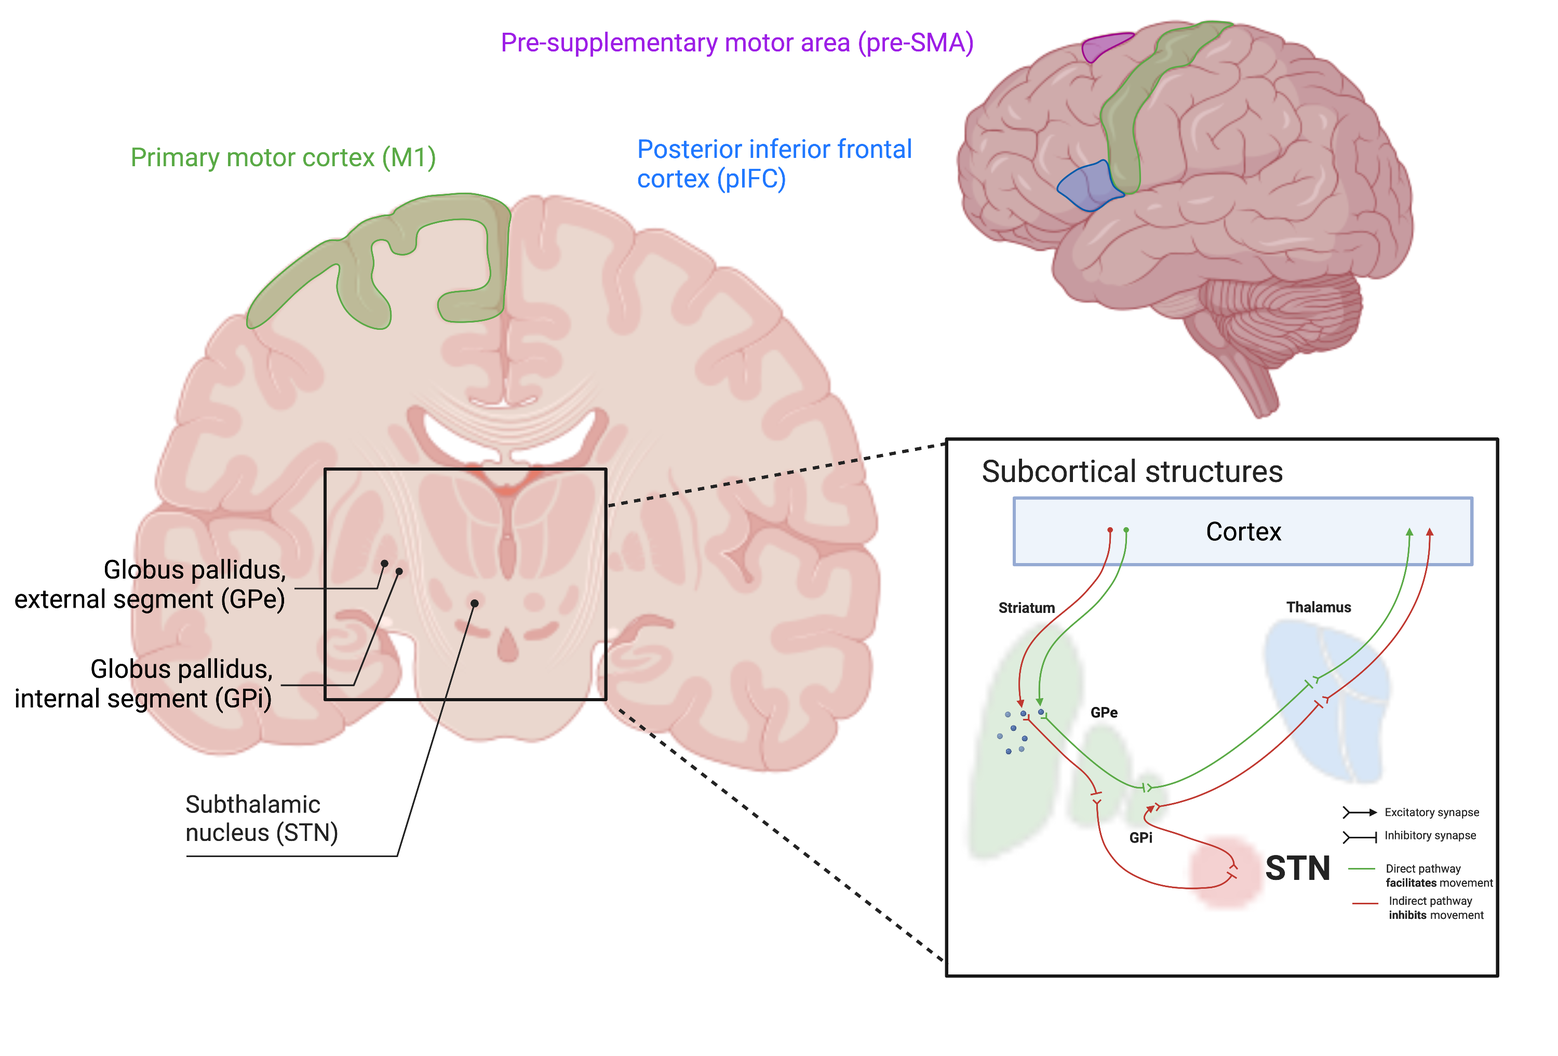
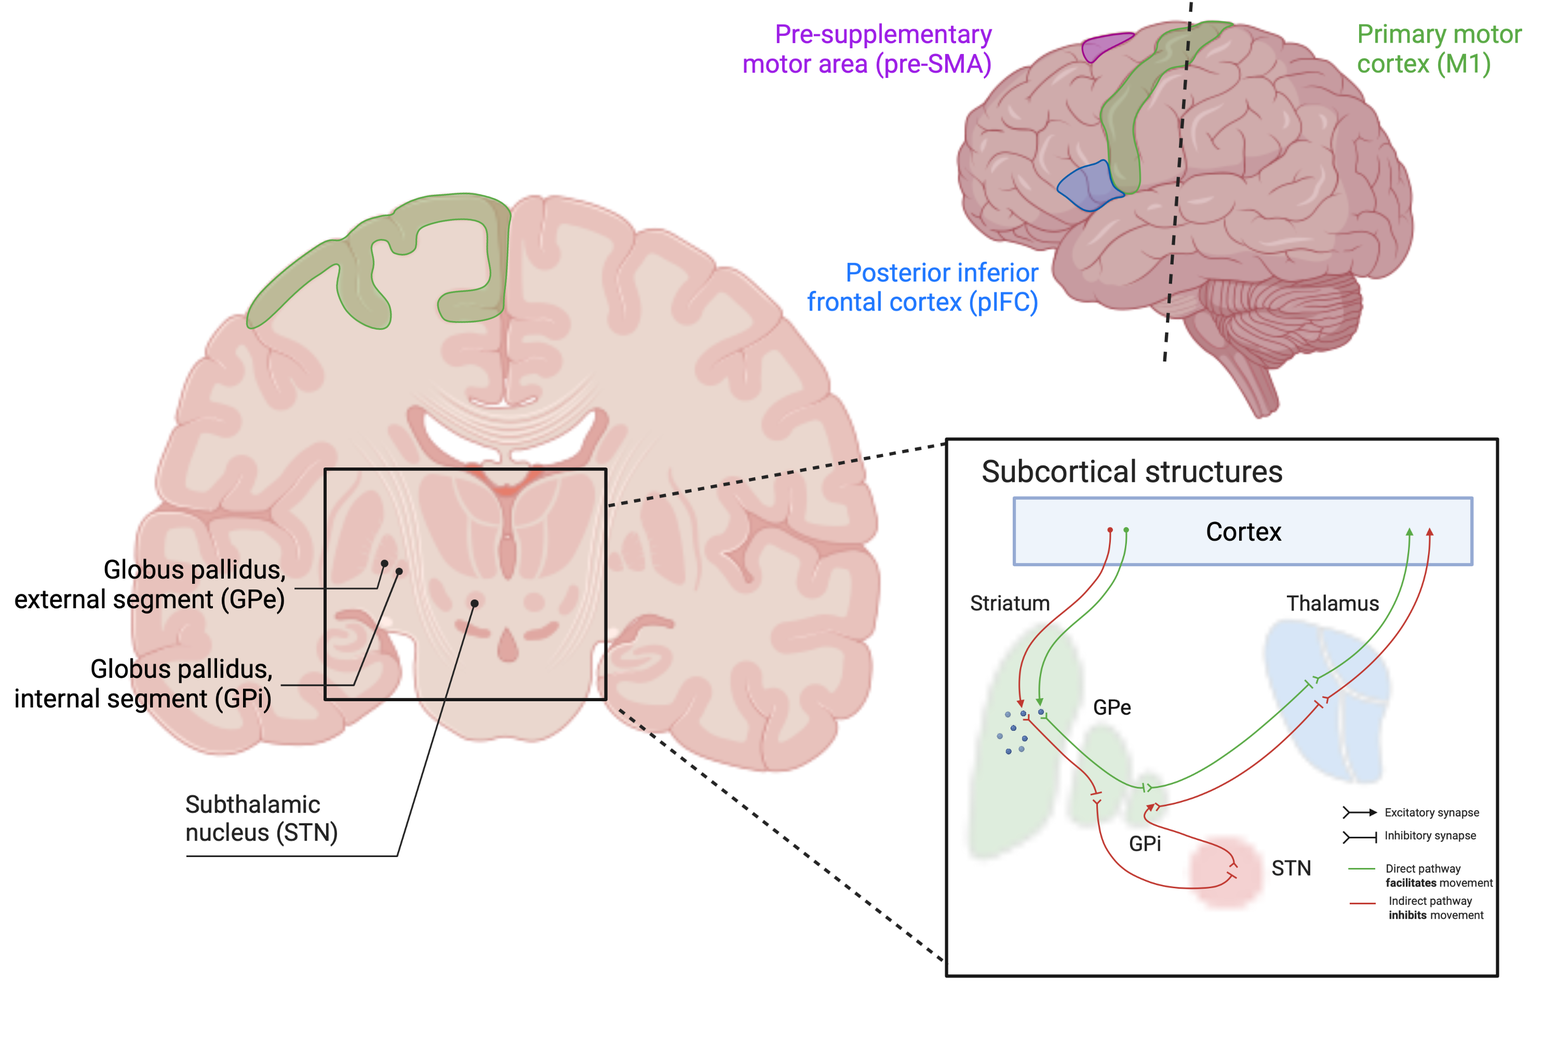
Minor updates in figure

diff --git a/manuscript.tex b/manuscript.tex
@@ -97,7 +97,7 @@ participants are asked to produce the action \textit{covertly}, which implicitly
 
 After reviewing evidence from electrophysiological, neuroimaging, and clinical studies, \cite{guillot_imagining_2012} suggested three possible routes whereby motor commands can be inhibited during motor imagery. First, motor inhibition can be integrated within the representation of the action to be produced internally, therefore no inhibition would be involved during motor imagery. Second, cerebral regions such as the supplementary motor area (SMA) \citep{kasess_suppressive_2008} or the right inferior frontal gyrus (rIFG) may weaken the motor commands that are emitted during motor imagery \citep[e.g.,][]{angelini_motor_2015, angelini_proactive_2016}, in addition to modulations of short-interval intracortical inhibition within the primary motor cortex itself \citep{neige_unravelling_2020}. More precisely, the pre-SMA and the rIFG may work together to intercept the action process via the basal ganglia (subthalamic nucleus, STN), hence suppressing the output from the basal ganglia which in turn might inhibit the primary motor cortex \citep{aron_reactive_2011} (cf. Figure \ref{fig:2}).\footnote{\cite{diesburg_pause-then-cancel_2021} proposed a functional dissociation between the pre-SMA and the rIFC in a two-stage "pause-then-cancel" model of action inhibition. In their model, they suggest that the pre-SMA would be involved in (globally) pausing the action whereas the rIFC would be involved in selectively cancelling (resetting) motor commands. Whether this functional dissociation is preserved in motor imagery and covert speech remains an open question.} Third, downstream regions in the cerebellum \citep[e.g.,][]{lotze_activation_1999}, in the brainstem \citep[e.g.,][]{jeannerod_neural_2001, jeannerod_motor_2006}, or at the spinal level may contribute to motor inhibition at a later stage.
 
-Whether covert speech production is accompanied by the emission of motor commands that are subsequently inhibited has been the matter of debate \citep[e.g.,][]{geva_inner_2018}. It has been suggested that the primary motor cortex would be "bypassed" during covert speech  \citep[e.g.,][]{tian_mental_2012, tian_effect_2013, tian_mental_2016} or that motor commands would be emitted but subsequently inhibited by frontal regions \citep[e.g.,][]{loevenbruck_cognitive_2018}. However, stating that motor imagery only involve subthreshold activity (and therefore is not accompanied by the emission of motor commands that are inhibited) simply shifts the problem from "how and where motor commands are subsequently inhibited" to "how and where the magnitude of activity in the motor system is planned or monitored" \citep[see also][]{scheil_motor_2018}. In other words, we still need to explain how (in a mechanistic and/or developmental way) this activity is maintained at a subthreshold level. What cognitive and neural mechanisms operate to maintain this activity under the threshold? In this section, we provided empirical arguments in favour of the "active inhibition hypothesis". Proponents of the "subliminal level hypothesis" need to clarify how this activity is maintained at a subthreshold level during inner speech production, thus preventing execution.
+Whether covert speech production is accompanied by the emission of motor commands that are subsequently inhibited has been the matter of debate \citep[e.g.,][]{geva_inner_2018}. It has been suggested that the primary motor cortex would be "bypassed" during covert speech  \citep[e.g.,][]{tian_mental_2012, tian_effect_2013, tian_mental_2016} or that motor commands would be emitted but subsequently inhibited by frontal regions \citep[e.g.,][]{loevenbruck_cognitive_2018}. However, stating that motor imagery only involves subthreshold activity (and therefore is not accompanied by the emission of motor commands that are inhibited) simply shifts the problem from "how and where motor commands are subsequently inhibited" to "how and where the magnitude of activity in the motor system is planned or monitored" \citep[see also][]{scheil_motor_2018}. In other words, we still need to explain how (in a mechanistic and/or developmental way) this activity is maintained at a subthreshold level. What cognitive and neural mechanisms operate to maintain this activity under the threshold? In this section, we provided empirical arguments in favour of the "active inhibition hypothesis". Proponents of the "subliminal level hypothesis" need to clarify how this activity is maintained at a subthreshold level during inner speech production, thus preventing execution.
 
 % \citep[e.g.,][]{angelini_motor_2015, angelini_proactive_2016}... \cite{ganos_action_2014} have showed that the behavioural performance during a stop-signal reaction-time task was similar across Tourette patients and healthy controls...
 
@@ -107,7 +107,7 @@ The role of inhibitory mechanisms during motor imagery and covert speech could b
 
 \cite{watson_psychology_1919} suggested that thought (i.e., covert speech, in his terminology) was rooted in (overt) speech, that is, that covert speech matures from overt speech. \cite{vygotsky_thought_1934} further formulated the idea that covert speech originates from private egocentric speech, that is, self-addressed overt speech in childhood. In other words, Vygotsky observed, as Piaget before, that egocentric speech tends to be internalised during child development. \cite{fernyhough_alien_2004} extended this idea with four levels of internalisation: external dialogue, private speech, expanded inner speech, and condensed inner speech. These levels represent stages of development but also define movements between levels, that is, how we go from overt to covert speech and conversely. The level at which speech is expressed may depend on inhibitory control applied at different levels in the production flow, such as the formulation or the articulatory planning level \citep{grandchamp_condialint_2019}. Therefore, producing speech covertly crucially depends on successfully inhibiting speech production at several levels. We formulate the hypothesis that the progressive internalisation of speech during childhood may be related to the development of inhibitory abilities.
 
-This idea could be assessed in several ways. First, the relation between speech internalisation and inhibitory abilities could be assessed during development at the critical ages (i.e., between 6 and 8 years). We would expect the ability to imagine actions and speech specifically to be positively correlated with inhibitory skills at this age. \cite{wang_relationship_2021} provided correlational evidence that motor imagery and motor inhibition performance improve together between 7 and 11 years old, and that these two abilities correlated at 7 years old (but did not correlate at 11 years old). This suggests that inhibitory control may play a peculiar role when speech is being internalised, but its role may weaken with expertise. This is consistent with results from training studies suggesting that we rely more and more on domain-general (e.g., memory-based) processes with expertise \citep[e.g.,][]{tarr_mental_1989, jolicoeur_time_1985}.
+This idea could be assessed in several ways. First, the relation between speech internalisation and inhibitory abilities could be assessed during development at the critical ages (i.e., between 6 and 8 years). We would expect the ability to imagine actions and speech specifically to be positively correlated with inhibitory skills at this age. \cite{wang_relationship_2021} provided correlational evidence that motor imagery and motor inhibition performance improve together between 7 and 11 years old, and that these two abilities correlated at 7 years old (but did not correlate at 11 years old). This suggests that inhibitory control may play a peculiar role when speech is being internalised, but its role may weaken with expertise. This is consistent with results from training studies suggesting that, with growing expertise, we tend to rely more and more on memory-based processes to produce mental imagery \citep[e.g.,][]{tarr_mental_1989, jolicoeur_time_1985}.
 
 Second, the hypothesised co-development of motor imagery and response inhibition abilities could be assessed by examining how novel actions are internalised in adults.\footnote{While keeping in mind the obvious limitation that the child mind is not equivalent to the adult mind, nor is it equivalent to a smaller version of the adult mind. Nevertheless, examining the development of novel imagined actions in adults avoids the contamination of the process of interest (imagined action) by developmental confounds.} For instance, let's consider the analogy between speaking and playing a music instrument (e.g., playing the piano). Essentially, learning to play the piano can be said to consist in learning to produce and coordinate complex and fine-grained motor sequences that in turn produce multisensory (e.g., kinaesthetic, auditory, visual) feedback to the agent producing of the action. Therefore, the act of producing speech can be paralleled with the act of playing an instrument as both actions consist in the coordination of complex movements that result in some modifications of the environment, that in turn generate sensory feedbacks (e.g., kinaesthetic, auditory) for the agent. This analogy suggests that we might be able to study the development of internal models responsible for the sensory experience accompanying imagined actions in the adult mind (e.g., when an individual is learning either a novel music instrument or a new language with speech sounds that are not present in his/her native language). By examining the development of novel imagined actions in the adult mind and by using motor interference (e.g., articulatory suppression) procedures, we might gain new insights about the internalisation of speech during childhood.
 
@@ -115,11 +115,11 @@ Second, the hypothesised co-development of motor imagery and response inhibition
 
 The production of covert speech is often, although not always and not for everyone, accompanied by the feeling of hearing speech \citep{hurlburt_investigating_2011}. In other words, covert speech is accompanied by a sensory experience that "feels like" hearing speech. However, covert speech may also be accompanied by the feeling of producing speech. These two facets of covert speech are characterised by different phenomenological experiences. In this section, we discuss how these two forms of covert speech may require motor inhibition to a different extent, in the light of the dual stream prediction model \citep{tian_mental_2012, tian_effect_2013, tian_mental_2016}.
 
-The dual stream prediction model \citep{tian_mental_2012, tian_effect_2013, tian_mental_2016} describes two neural pathways that may provide the auditory content of covert speech. First, the simulation-estimation prediction stream implements a motor-to-sensory transformation via motor simulation, that is, by simulating speech movements and the perceptual changes that would be associated with these movements \citep[see also][for a similar proposal]{loevenbruck_cognitive_2018}. This stream includes cerebral areas involved in speech motor preparation such as the supplementary motor area, the inferior frontal gyrus, the premotor cortex and the insula, as well as cerebral areas involved in somatosensory estimation and perception such as primary and secondary somatosensory regions, the parietal operculum, and the supramarginal gyrus \citep{tian_mental_2016}. Second, the memory-retrieval prediction stream may be used to provide auditory percepts by "reconstructing stored perceptual information in modality-specific cortices" \citep{tian_mental_2016}. In other words, sensory percepts would be generated by activating sensory-specific cortices from object properties stored in long-term memory. This mechanism provides sensory percepts without the need for computing the predicted sensory consequences of (non executed) motor commands. This stream includes semantic networks, including frontal, temporal, and parietal regions \citep[for more details, see][]{tian_mental_2016}.
+The dual stream prediction model \citep{tian_mental_2012, tian_effect_2013, tian_mental_2016} describes two neural pathways that may provide the auditory content of covert speech. First, the simulation-estimation prediction stream implements a motor-to-sensory transformation via motor simulation, that is, by simulating speech movements and the perceptual changes that would be associated with these movements \citep[see also][for a similar proposal]{loevenbruck_cognitive_2018}. This stream includes cerebral areas involved in speech motor preparation such as the supplementary motor area, the inferior frontal gyrus, the premotor cortex and the insula, as well as brain areas involved in somatosensory estimation and perception such as primary and secondary somatosensory regions, the parietal operculum, and the supramarginal gyrus \citep{tian_mental_2016}. Second, the memory-retrieval prediction stream may be used to provide auditory percepts by "reconstructing stored perceptual information in modality-specific cortices" \citep{tian_mental_2016}. In other words, sensory percepts would be generated by activating sensory-specific cortices from object properties stored in long-term memory. This mechanism provides sensory percepts without the need for computing the predicted sensory consequences of (non executed) motor commands. This stream includes semantic networks, including frontal, temporal, and parietal regions \citep[for more details, see][]{tian_mental_2016}.
 
 % \footnote{This distinction shares similarities with the distinction between the prediction-by-simulation or prediction-by-association mechanisms in speech production and comprehension suggested by \cite{pickering_integrated_2013}.}
 
-The balance between these two mechanisms (i.e., simulation vs. memory retrieval) may depend on the precise instructions given to the participants, which may clue them to produce different forms of covert speech. For instance, either one of these two streams may be recruited preferentially depending on whether participants are instructed to "imagine speaking" or to "imagine hearing" \citep[see also the distinction between the "inner ear" and the "inner voice", e.g.,][]{smith_subvocalization_1992}. In line with this hypothesis, \cite{tian_mental_2016} have shown that inner speaking more strongly recruits cerebral regions in the simulation stream than inner hearing, which more strongly recruits cerebral regions in the memory-retrieval stream. Moreover, \cite{ma_distinct_2019} have shown that inner speaking and inner hearing have distinct MEG correlates and effects on a subsequent phonetic (discriminating /ba/ vs. /da/) categorisation task.
+The balance between these two mechanisms (i.e., simulation vs. memory retrieval) may depend on the precise instructions given to the participants, which may clue them to produce different forms of covert speech. For instance, either one of these two streams may be recruited preferentially depending on whether participants are instructed to "imagine speaking" or to "imagine hearing" \citep[see also the distinction between the "inner ear" and the "inner voice", e.g.,][]{smith_subvocalization_1992}. In line with this hypothesis, \cite{tian_mental_2016} have shown that inner speaking more strongly recruits brain regions in the simulation stream than inner hearing, which more strongly recruits brain regions in the memory-retrieval stream. Moreover, \cite{ma_distinct_2019} have shown that inner speaking and inner hearing have distinct MEG correlates and effects on a subsequent phonetic (discriminating /ba/ vs. /da/) categorisation task.
 
 In the absence of ambiguous instructions, and in line with \cite{tian_mental_2012}, we suggest that the balance between these two mechanisms may also depend on situational (e.g., surrounding noise) and intrinsic (e.g., expertise) characteristics. We further suggest that a common currency determining the use of either one of these mechanisms is the computational cost of (or equivalently, the computational resources available for) each alternative. To clarify, we borrow the concept of memoisation as applied to cognition and mental imagery by \cite{dasgupta_memory_2021} (cf. Box \ref{memoisation}). In their view, memory can be considered as a computational resource to facilitate computational reuse through memoisation. In the context of motor and speech imagery, memoisation can be seen in the greater reliance on memory in the course of learning, where motor-to-sensory mappings are partially or completely retrieved from memory, instead of being computed again every time.
 
@@ -131,7 +131,7 @@ Memoisation is a programming technique used to speed-up algorithms or programs. 
 
 \end{mybox}
 
-In other words, situational (extrinsic) and individual (intrinsic) characteristics jointly determine the computational cost of (or equivalently, the available computational resources for) the task, which in turn determines the balance between the simulation and association mechanisms. For instance, we hypothesise that novel and/or difficult tasks (which are both computationally more expensive, ceteris paribus) may rely more on the simulation mechanism, whereas well known and/or easy tasks may rely more on associative mechanisms. This idea is supported by several studies showing a greater increase in facial EMG activity during the reading of difficult text or while performing difficult mental arithmetic tasks as compared to easier tasks \citep[e.g.,][]{faaborg-andersen_electromyography_1958, sokolov_inner_1972}, suggesting a greater involvement of the speech motor system. Alternatively, these results may suggest a lesser involvement of inhibitory mechanisms \citep[see also the discussion in][]{nalborczyk_understanding_2019-1, nalborczyk_re-analysing_2020}. This is congruent with the greater reliance on associative mechanisms with greater expertise, as discussed previously.
+In other words, situational (extrinsic) and individual (intrinsic) characteristics jointly determine the computational cost of (or equivalently, the available computational resources for) the task, which in turn determines the balance between the simulation and association mechanisms. For instance, we hypothesise that novel and/or difficult tasks (which are both computationally more expensive, ceteris paribus) may rely more on the simulation mechanism, whereas well known and/or easy tasks may rely more on associative mechanisms. This idea is supported by several studies showing a greater increase in facial EMG activity during the reading of difficult text or while performing difficult mental arithmetic tasks as compared to easier tasks % \citep[e.g.,][]{faaborg-andersen_electromyography_1958, sokolov_inner_1972}, suggesting a greater involvement of the speech motor system. Alternatively, these results may suggest a lesser involvement of inhibitory mechanisms \citep[see also the discussion in][]{nalborczyk_understanding_2019-1, nalborczyk_re-analysing_2020}. This is congruent with the greater reliance on associative mechanisms with greater expertise, as discussed previously.
 
 To sum up, whereas inner speaking may involve active inhibition of motor commands, inner hearing may not (or to a lesser extent). These disparities between inner speaking and inner hearing may explain the large variety of results when looking at the cerebral correlates of covert speech production \citep[as reviewed for instance in][]{geva_inner_2018}. Different forms of covert speech, that may vary in condensation, dialogicality, or intentionality \citep[see][]{grandchamp_condialint_2019}, may require inhibitory control to a different extent, from no inhibition at all for condensed forms of covert speech to active inhibition of motor commands for fully expanded forms of covert speech.
 
@@ -139,7 +139,9 @@ To sum up, whereas inner speaking may involve active inhibition of motor command
 
 We explored some of the theoretical and experimental consequences that emerge when considering covert speech production as inhibited overt speech production. To this end, we connected results from the motor imagery, motor inhibition, and covert speech domains. Regarding the role and implementation of general-purpose inhibitory mechanisms during the production of covert speech, we suggested that these may be similar to the inhibitory network responsible for proactive response inhibition and we summarised some propositions from this literature. We related the development of response inhibition abilities in childhood development with the purported internalisation of private speech around the same period. From the response inhibition perspective, the internalisation of speech from overt to covert speech may essentially be considered as "learning not to produce speech".
 
-Regarding the neural origin of the sensory experience of covert speech, we discussed the dual stream prediction model \citep{tian_mental_2012, tian_effect_2013, tian_mental_2016}, which suggests that these sensory percepts may be provided either by a motor-simulation-based process or by a memory-based process. We suggested that the balance between these two mechanisms, in addition to the task instructions which may prompt different forms of covert speech, may also be determined by the available computational resources for (or equivalently, the computational cost of) the task. More precisely, novel or more difficult tasks are expected to rely more on the motor-simulation mechanisms whereas well-known and/or easy tasks may rely more on a "memoised version" of the motor simulation: the memory-retrieval prediction stream. Whereas the former mechanism should involve active inhibitory mechanisms, the latter should not, as there should be no (or less) motor commands to inhibit. Crucially, different forms of covert speech, varying in condensation, dialogicality, or intentionality, may require inhibitory control to a different extent.
+Regarding the neural origin of the sensory experience of covert speech, we discussed the dual stream prediction model \citep{tian_mental_2012, tian_effect_2013, tian_mental_2016}, which suggests that these sensory percepts may be provided either by a motor-simulation-based process or by a memory-based process. We suggested that the balance between these two mechanisms, in addition to the task instructions which may prompt different forms of covert speech, may also be determined by the available computational resources for (or equivalently, the computational cost of) the task. More precisely, novel or more difficult tasks are expected to rely more on the motor-simulation mechanisms whereas well-known and/or easy tasks may rely more on a "memoised version" of the motor simulation: the memory-retrieval prediction stream. Whereas the former mechanism should involve active inhibitory mechanisms, the latter should not, as there should be no (or less) motor commands to inhibit.
+
+% Crucially, different forms of covert speech, varying in condensation, dialogicality, or intentionality, may require inhibitory control to a different extent.
 
 Taken together, these propositions pave the way for several lines of research that should consolidate our understanding of the relations between overt and covert speech production. Several outstanding questions remain. Amongst others, how does the development of inhibitory control relate with the progressive internalisation of speech during childhood? How individual and situational constraints shape the role of motor inhibition during covert speech production? How is covert speech affected by poor or degraded inhibitory control? Can we experimentally "force" (e.g., using neurostimulation) the externalisation of speech in adults? The use of neurostimulation and the comparison between healthy controls and patients with well-identified inhibitory deficits could help refine the involvement of these inhibitory mechanisms during covert speech production, which may lead to applied outcomes in the care of motor and verbal tics.
 
